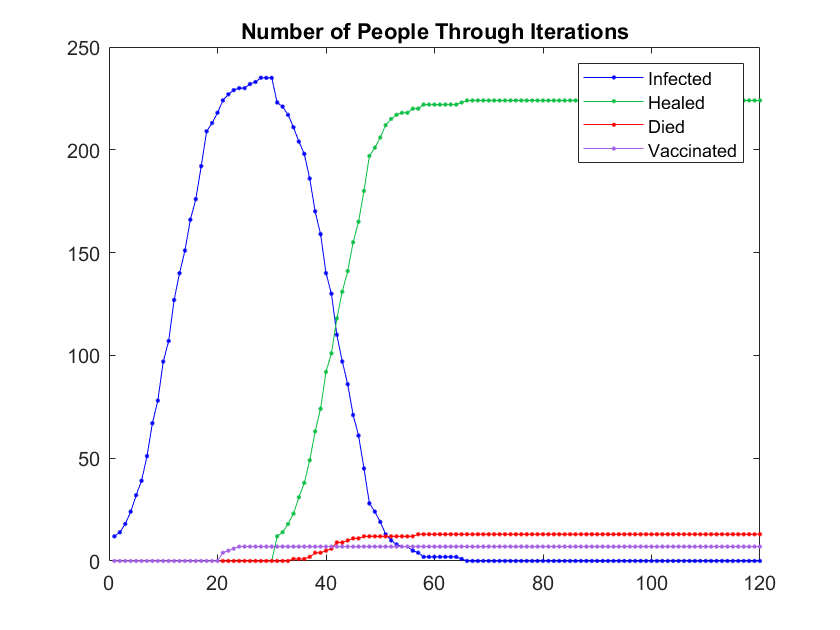
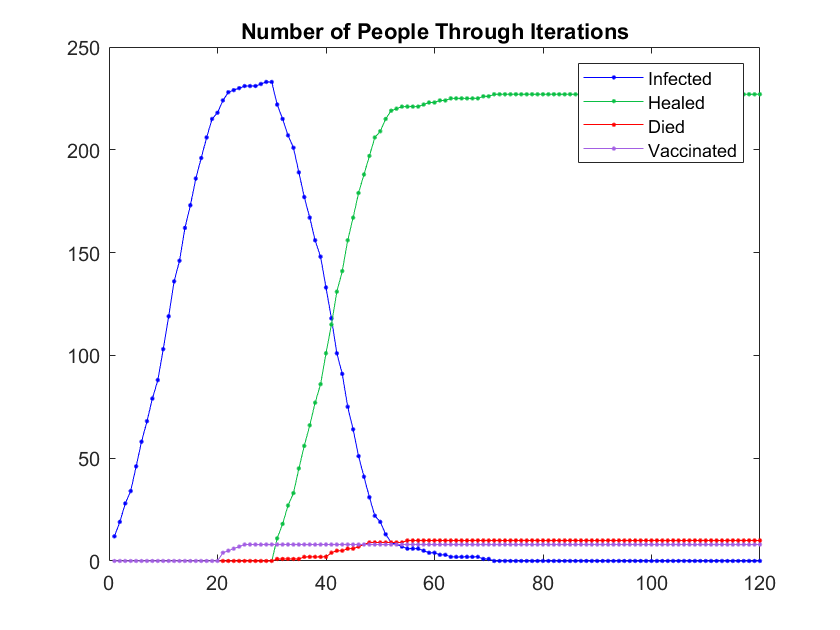
Graph Images for Part 2 updated & notes added to obsidian

diff --git a/Notes/IE206 Term Project I.md b/Notes/IE206 Term Project I.md
@@ -104,8 +104,20 @@ Died -11.5700
 
 Scenario IV
 
-Infected - 216.3900 
+Infected - 216.3900
 Healed -205.3900
 Died -11.4100
 
 ---
+# Part II:Alternative Scenarios
+## 1.
+- Under only the isolation policy is implemented, the effect of isolation probability is examined by changing the original isolation probability. By setting the value to a higher and lower values, total number of infected and dead people through the iterations are graphed according to the simulation (figurea figureb figurec)
+- In all three cases ,where the isolation probability is low,moderate and high, all of the population gets infected. However, according to the number of people per iteration data (figure dcsnkvfs) the number of iteration where the peak of infected people occurs and the peak value changes depending on the isolation probability. In figure(0.2 per iteration),where the isolation probability equals 20%, peak occurs earlier, closer to 15th iteration in the simulation. In contrast,in the case of original scenario where the isolation probability equals 50%, peak of infected people occurs approximately at 20th iteration. In the case where isolation probability is equal to 80%, the peak occurs approximately at the same iteration with the 50% probability but the span of the infected people per iteration is larger. Even after the 40th iteration, there are still new people getting infected. The reason behind this situation is due to the less iterations between infected and healthy people. The higher the isolation probability gets, the more people that has not infected yet in the later iterations who can still get infected. 
+- The peak values of the infected people in the case of isolation probability equals 20% is higher than other cases because more people gets infected in a short amount of iterations. This situation might lead to some failure in the healthcare system.
+- The total number of dead people in all three cases are equal since in all three situations, all of the population gets infected and death probabilities are the same for people in the isolated and non-isolated infected people.
+
+## 2.
+- Under only the vaccination policy is implemented, the effect of vaccination rate  is examined by changing the original vaccination rate function. 
+$$
+\\0.2\bigg(\frac{1}{t_v-19}\bigg)\leftarrow0.5\bigg(\frac{1}{t_v-19}\bigg)\rightarrow 0.8\bigg(\frac{1}{t_v-19}\bigg)\
+$$
